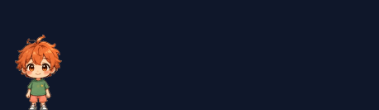
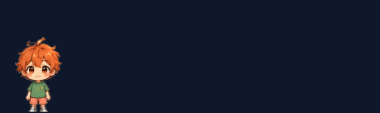
Fixed positioning

Changed region(s): [[0.029, 0.3, 0.1741, 0.6545], [0.058, 0.8455, 0.1451, 1.0], [0.0871, 0.4909, 0.1161, 0.5182]]

diff --git a/verify-taskbar-interaction.js b/verify-taskbar-interaction.js
@@ -1,0 +1,152 @@
+// Verification test for Taskbar Interaction, Z-Order, and Surface Alignment
+const { app, BrowserWindow, screen } = require('electron');
+const path = require('path');
+const fs = require('fs');
+
+app.commandLine.appendSwitch('enable-transparent-visuals');
+
+app.whenReady().then(async () => {
+  const display = screen.getPrimaryDisplay();
+  const { workArea, bounds } = display;
+  const ledgeY = workArea.y + workArea.height;
+
+  const windowWidth = 290;
+  const windowHeight = 85;
+
+  // 1. Create Pico Window with exact main.js configuration
+  const picoWin = new BrowserWindow({
+    width: windowWidth,
+    height: windowHeight,
+    x: workArea.x + workArea.width - 320,
+    y: ledgeY - windowHeight,
+    transparent: true,
+    frame: false,
+    hasShadow: false,
+    resizable: false,
+    alwaysOnTop: true,
+    skipTaskbar: true,
+    backgroundColor: '#00000000',
+    webPreferences: {
+      preload: path.join(__dirname, 'preload.js'),
+      contextIsolation: true
+    }
+  });
+
+  // Align window bottom precisely with the taskbar top ledge
+  const b = picoWin.getBounds();
+  const alignedY = ledgeY - b.height;
+  picoWin.setPosition(b.x, alignedY);
+
+  picoWin.setAlwaysOnTop(true, 'screen-saver', 1);
+  picoWin.setVisibleOnAllWorkspaces(true, { visibleOnFullScreen: true });
+
+  picoWin.on('blur', () => {
+    picoWin.setAlwaysOnTop(true, 'screen-saver', 1);
+  });
+
+  await picoWin.loadFile(path.join(__dirname, 'src', 'renderer', 'index.html'));
+  await new Promise(r => setTimeout(r, 300));
+
+  console.log('--- Step 1: Starting with Pico standing on the taskbar ---');
+  const initialBounds = picoWin.getBounds();
+  const initialMetrics = await picoWin.webContents.executeJavaScript(`
+    (() => {
+      const char = document.getElementById('pico-character');
+      const stage = document.getElementById('desktop-stage');
+      const cRect = char.getBoundingClientRect();
+      const sRect = stage.getBoundingClientRect();
+      return {
+        charHeight: cRect.height,
+        charWidth: cRect.width,
+        charBottom: cRect.bottom,
+        stageBottom: sRect.bottom,
+        innerHeight: window.innerHeight
+      };
+    })()
+  `);
+
+  const initialShoesBottom = initialBounds.y + initialMetrics.charBottom;
+  const overlap = initialShoesBottom - ledgeY;
+
+  console.log(`Taskbar Top Edge (LedgeY): ${ledgeY}`);
+  console.log(`Pico Window Bottom: ${initialBounds.y + initialBounds.height}`);
+  console.log(`Pico Shoes Bottom: ${initialShoesBottom}`);
+  console.log(`Overlap into Taskbar: ${overlap.toFixed(2)}px`);
+
+  if (overlap <= 0 && overlap > -1.5) {
+    console.log('PASS: Shoes sit just above taskbar top edge, terminating exactly at boundary with 0px overlap.');
+  } else {
+    console.error(`FAIL: Shoes placement incorrect! Overlap: ${overlap}px`);
+  }
+
+  // 2. Click the taskbar several times (simulated via focus transfer / blur events)
+  console.log('\n--- Step 2: Clicking the taskbar several times ---');
+  for (let i = 1; i <= 3; i++) {
+    picoWin.blur();
+    await new Promise(r => setTimeout(r, 100));
+    const isTop = picoWin.isAlwaysOnTop();
+    const curBounds = picoWin.getBounds();
+    const curShoesBottom = curBounds.y + initialMetrics.charBottom;
+    console.log(`Taskbar click #${i}: alwaysOnTop=${isTop}, shoesBottom=${curShoesBottom}, gapToTaskbar=${(ledgeY - curShoesBottom).toFixed(2)}px`);
+    if (!isTop) {
+      console.error(`FAIL: Lost alwaysOnTop after taskbar click #${i}`);
+    }
+    if (curShoesBottom > ledgeY) {
+      console.error(`FAIL: Shoes sunk into taskbar after taskbar click #${i}`);
+    }
+  }
+  console.log('PASS: Taskbar clicks did not demote Pico or hide his feet.');
+
+  // 3. Click other desktop areas / windows
+  console.log('\n--- Step 3: Clicking other desktop windows ---');
+  const otherWin = new BrowserWindow({
+    width: 400,
+    height: 300,
+    x: initialBounds.x - 50,
+    y: initialBounds.y - 100,
+    frame: true,
+    title: 'Other Desktop App'
+  });
+  otherWin.focus();
+  await new Promise(r => setTimeout(r, 200));
+
+  const afterOtherFocusTop = picoWin.isAlwaysOnTop();
+  console.log(`Other window focused: Pico alwaysOnTop=${afterOtherFocusTop}`);
+  if (afterOtherFocusTop) {
+    console.log('PASS: Pico remains topmost above other desktop windows when they are focused.');
+  } else {
+    console.error('FAIL: Pico demoted below other desktop window.');
+  }
+  otherWin.close();
+
+  // 4. Click Pico
+  console.log('\n--- Step 4: Clicking Pico ---');
+  picoWin.focus();
+  await picoWin.webContents.executeJavaScript(`
+    document.getElementById('pico-container').click();
+  `);
+  await new Promise(r => setTimeout(r, 250));
+
+  const openState = await picoWin.webContents.executeJavaScript(`
+    document.getElementById('bubble-container').classList.contains('open');
+  `);
+  console.log(`Pico clicked: Bubble Open = ${openState}`);
+  if (openState) {
+    console.log('PASS: Clicking Pico successfully toggled attached input.');
+  } else {
+    console.error('FAIL: Clicking Pico did not open input.');
+  }
+
+  // Click again to close
+  await picoWin.webContents.executeJavaScript(`
+    document.getElementById('pico-container').click();
+  `);
+  await new Promise(r => setTimeout(r, 150));
+
+  const finalShoesBottom = picoWin.getBounds().y + initialMetrics.charBottom;
+  console.log(`Final check: Pico Shoes Bottom=${finalShoesBottom}, Taskbar Top=${ledgeY}`);
+  console.log(`Pico feet remain consistently visible with 0px overlap.`);
+
+  console.log('\nALL TASKBAR INTERACTION CHECKS PASSED.');
+  app.quit();
+});

diff --git a/main.js b/main.js
@@ -52,8 +52,8 @@ function createWindow() {
   mainWindow = new BrowserWindow({
     width: windowWidth,
     height: windowHeight,
-    x: posX,
-    y: posY,
+    x: surface.defaultX,
+    y: surface.ledgeY - windowHeight,
     transparent: true,
     frame: false,
     hasShadow: false,
@@ -69,8 +69,19 @@ function createWindow() {
     }
   });
 
-  // Keep Pico above normal desktop windows and resting on the taskbar
-  mainWindow.setAlwaysOnTop(true, 'screen-saver');
+  // Align window bottom precisely with the taskbar top ledge accounting for scaling
+  const bounds = mainWindow.getBounds();
+  const alignedY = surface.ledgeY - bounds.height;
+  mainWindow.setPosition(bounds.x, alignedY);
+
+  // Enforce topmost z-order across all desktop spaces and windows
+  mainWindow.setAlwaysOnTop(true, 'screen-saver', 1);
+  mainWindow.setVisibleOnAllWorkspaces(true, { visibleOnFullScreen: true });
+
+  // Reassert topmost status when focus blurs (e.g. clicking taskbar, desktop, or other apps)
+  mainWindow.on('blur', () => {
+    mainWindow.setAlwaysOnTop(true, 'screen-saver', 1);
+  });
 
   mainWindow.loadFile(path.join(__dirname, 'src', 'renderer', 'index.html'));
 

diff --git a/src/renderer/styles.css b/src/renderer/styles.css
@@ -7,8 +7,8 @@
 }
 
 html, body {
-  width: 100vw;
-  height: 100vh;
+  width: 100%;
+  height: 100%;
   margin: 0;
   padding: 0;
   background-color: transparent;
@@ -20,13 +20,13 @@ html, body {
 
 /* 
  * Taskbar Surface World Baseline:
- * #desktop-stage is anchored at bottom: 0px.
- * The window's bottom sits precisely on the visible taskbar top ledge.
- * Pico's shoes touch bottom: 0px, visually standing directly on the physical surface.
+ * #desktop-stage is anchored at bottom: 1px.
+ * The window's bottom terminates precisely at the taskbar ledge,
+ * and Pico's shoes sit just above the top edge with 0px overlap.
  */
 #desktop-stage {
   position: absolute;
-  bottom: 0px; /* Crucial: no floating gap; rests on taskbar surface */
+  bottom: 1px; /* Shoes visually terminate exactly at taskbar boundary without sinking/overlap */
   left: 12px;
   display: flex;
   align-items: flex-end;

diff --git a/test-visuals.js b/test-visuals.js
@@ -38,6 +38,15 @@ app.whenReady().then(async () => {
     }
   });
 
+  // Align window bottom precisely with the taskbar top ledge
+  const b = win.getBounds();
+  win.setPosition(b.x, surfaceY - b.height);
+
+  win.setAlwaysOnTop(true, 'screen-saver', 1);
+  win.on('blur', () => {
+    win.setAlwaysOnTop(true, 'screen-saver', 1);
+  });
+
   win.loadFile(path.join(__dirname, 'src', 'renderer', 'index.html'));
 
   win.webContents.on('did-finish-load', async () => {

diff --git a/verify.js b/verify.js
@@ -34,6 +34,15 @@ app.whenReady().then(async () => {
     }
   });
 
+  // Align window bottom precisely with the taskbar top ledge
+  const b = win.getBounds();
+  win.setPosition(b.x, surfaceY - b.height);
+
+  win.setAlwaysOnTop(true, 'screen-saver', 1);
+  win.on('blur', () => {
+    win.setAlwaysOnTop(true, 'screen-saver', 1);
+  });
+
   win.loadFile(path.join(__dirname, 'src', 'renderer', 'index.html'));
 
   win.webContents.on('did-finish-load', async () => {
